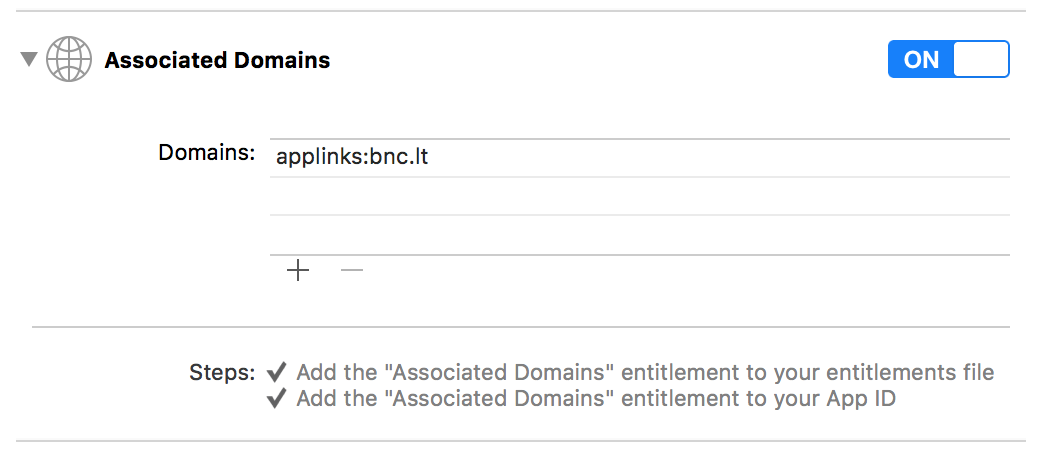
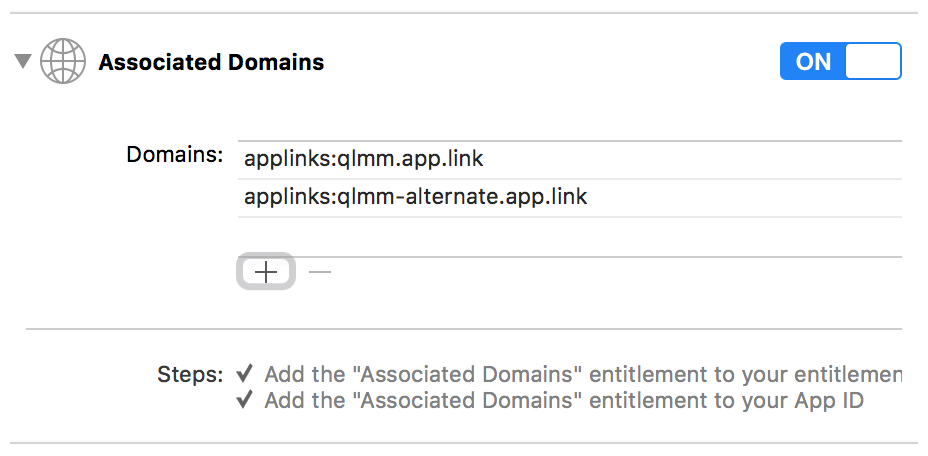
Inline the UL/AL instructions

diff --git a/pages/getting-started/universal-app-links.md b/pages/getting-started/universal-app-links.md
@@ -81,7 +81,7 @@ You can retrieve your app's Bundle Identifier under the `General` tab of your Xc
 
 {% caution title="bnc.lt links with your Test Key?" %}
 
-Due to a change in iOS 9.3.1, Universal Links will not work on *Test* apps using the `bnc.lt` domain. We're working on resolving this. Please test Universal Links with your Live app, where they will work as expected. [Read more](http://status.branch.io/incidents/b0c19p6hpq58){:target="_blank"}.
+Due to a change in iOS 9.3.1, Universal Links will not work on *Test* apps using the `bnc.lt` domain. Please test `bnc.lt` Universal Links with your Live app, where they will work as expected. [Read more](http://status.branch.io/incidents/b0c19p6hpq58){:target="_blank"}.
 {% endcaution %}
 
 
@@ -105,9 +105,14 @@ Please ensure...
 
 ### Add your Branch link domains
 
-1. In the `Domains` section, click the `+` icon and add the following entry: `applinks:[branchsubdomain]` {% image src='/img/pages/getting-started/universal-app-links/add_domain.png' 3-quarters center alt='xcode add domain' %}
+1. Go to the [Link Settings](https://dashboard.branch.io/#/settings/link) page on the dashboard.
+1. Scroll down to the `Custom Link Domain` area.
+1. Locate the value inside the `Default domain name` box.{% image src='/img/pages/getting-started/universal-app-links/default-link-domain.png' half center alt='retrieving the default link subdomain' %}
+1. In the `Domains` section, click the `+` icon and add the following entries: (making sure that `xxxx` matches the four-character value on the dashboard)
+   * `applinks:xxxx.app.link`
+   * `applinks:xxxx-alternate.app.link`
 
-{% ingredient branchsubdomain %}{% endingredient %}
+{% image src='/img/pages/getting-started/universal-app-links/add_domain.png' 3-quarters center alt='xcode add domain' %}
 
 {% caution title="Support for legacy links" %}
 If any of your links use the legacy `bnc.lt` domain, you must also include the following entry: `applinks:bnc.lt`
@@ -126,41 +131,52 @@ If you use a [custom domain or subdomain for your Branch links]({{base.url}}/get
 
 {% if page.cordova %}
 
-Add the following entry to your application's `config.xml`:
+1. Go to the [Link Settings](https://dashboard.branch.io/#/settings/link) page on the dashboard.
+1. Scroll down to the `Custom Link Domain` area.
+1. Locate the value inside the `Default domain name` box.{% image src='/img/pages/getting-started/universal-app-links/default-link-domain.png' half center alt='retrieving the default link subdomain' %}
+1. Add the following entry to your application's `config.xml` (making sure that `xxxx` matches the four-character value on the dashboard)
 
 {% highlight xml %}
 <branch-config>
     <ios-team-id value="your_ios_team_id" />
-    <host name="[branchsubdomain]" scheme="https" />
+    <host name="xxxx.app.link" scheme="https" />
+    <host name="xxxx-alternate.app.link" scheme="https" />
 </branch-config>
 {% endhighlight %}
 
 {% caution title="Support for legacy links" %}
-If any of your links use the legacy `bnc.lt` domain, you must also include the following entry:
+If any of your links use the legacy `bnc.lt` domain, you must also include the following key:
 
 {% highlight xml %}
-<branch-config>
-<ios-team-id value="your_ios_team_id" />
 <host name="bnc.lt" scheme="https" />
-</branch-config>
 {% endhighlight %}
 
 {% endcaution %}
 
 {% protip title="Notes" %}
 - You can get your **iOS Team ID** from the Your Account page on the [Apple Developer Portal](https://developer.apple.com/membercenter/index.action#accountSummary).
-- If you use a custom domain or subdomain for your Branch links, you should also add a key for `<host name="mycustomdomainorsubdomain" scheme="https" />`.
+- If you use a custom domain or subdomain for your Branch links, you should also add a key for:
+
+{% highlight xml %}
+<host name="mycustomdomainorsubdomain" scheme="https" />
+{% endhighlight %}
+
 {% endprotip %}
 
 {% endif %}
 
 {% if page.xamarin %}
 
-Create a new file named `Entitlements.plist` in the root directory of your project. Enable `associated-domains` and add `applinks:[branchsubdomain]`.
+1. Go to the [Link Settings](https://dashboard.branch.io/#/settings/link) page on the dashboard.
+1. Scroll down to the `Custom Link Domain` area.
+1. Locate the value inside the `Default domain name` box.{% image src='/img/pages/getting-started/universal-app-links/default-link-domain.png' half center alt='retrieving the default link subdomain' %}
+1. Create a new file named `Entitlements.plist` in the root directory of your project.
+1. Enable `associated-domains`
+1. In the `Domains` section, click the `+` icon and add the following entries: (making sure that `xxxx` matches the four-character value on the dashboard)
+    * `applinks:xxxx.app.link`
+    * `applinks:xxxx-alternate.app.link`
 
 {% image src='/img/pages/getting-started/universal-app-links/xamarin_branch_ios_domains.png' full center alt='Associated Domains' %}
-
-{% ingredient branchsubdomain %}{% endingredient %}
 
 {% caution title="Support for legacy links" %}
 If any of your links use the legacy `bnc.lt` domain, you must also include the following entry: `applinks:bnc.lt`
@@ -174,8 +190,11 @@ If you use a [custom domain or subdomain for your Branch links]({{base.url}}/get
 
 {% if page.titanium %}
 
+1. Go to the [Link Settings](https://dashboard.branch.io/#/settings/link) page on the dashboard.
+1. Scroll down to the `Custom Link Domain` area.
+1. Locate the value inside the `Default domain name` box.{% image src='/img/pages/getting-started/universal-app-links/default-link-domain.png' half center alt='retrieving the default link subdomain' %}
 1. Create a new file named `Entitlements.plist` in the same directory as your Titanium app's `tiapp.xml`
-1. Insert the following snippet:
+1. Insert the following snippet (making sure that `xxxx` matches the four-character value on the dashboard)
 
 {% highlight xml %}
 <?xml version="1.0" encoding="UTF-8"?>
@@ -184,13 +203,12 @@ If you use a [custom domain or subdomain for your Branch links]({{base.url}}/get
 <dict>
     <key>com.apple.developer.associated-domains</key>
     <array>
-        <string>applinks:[branchsubdomain]</string>
+        <string>applinks:xxxx.app.link</string>
+        <string>applinks:xxxx-alternate.app.link</string>
     </array>
 </dict>
 </plist>
 {% endhighlight %}
-
-{% ingredient branchsubdomain %}{% endingredient %}
 
 {% caution title="Support for legacy links" %}
 If any of your links use the legacy `bnc.lt` domain, you must also include the following entry: `<string>applinks:bnc.lt</string>`
@@ -380,43 +398,52 @@ You can insert both your debug and production fingerprints for testing. Simply s
 
 ## Configure project
 
-Add the following entry to your application's `config.xml`:
+1. Go to the [Link Settings](https://dashboard.branch.io/#/settings/link) page on the dashboard.
+1. Scroll down to the `Custom Link Domain` area.
+1. Locate the value inside the `Default domain name` box.{% image src='/img/pages/getting-started/universal-app-links/default-link-domain.png' half center alt='retrieving the default link subdomain' %}
+1. Add the following entry to your application's `config.xml` (making sure that `xxxx` matches the four-character value on the dashboard)
 
 {% highlight xml %}
 <branch-config>
-    <android-prefix value="READ_FROM_DASHBOARD" />
-    <host name="[branchsubdomain]" scheme="https" />
+    <host name="xxxx.app.link" scheme="https" />
 </branch-config>
 {% endhighlight %}
-
-{% ingredient branchsubdomain %}{% endingredient %}
 
 {% caution title="Support for legacy links" %}
-If any of your links use the legacy `bnc.lt` domain, you must also include the following entry:
+If any of your links use the legacy `bnc.lt` domain, you must also include the following keys:
 
 {% highlight xml %}
-<branch-config>
-    <ios-team-id value="your_ios_team_id" />
-    <host name="bnc.lt" scheme="https" />
-</branch-config>
+<android-prefix value="READ_FROM_DASHBOARD" />
+<host name="bnc.lt" scheme="https" />
 {% endhighlight %}
+
+`READ_FROM_DASHBOARD` is the four-character value in front of all your links. You can find it underneath the field labeled **SHA256 Cert Fingerprints** on the dashboard. It will look something like this: `/WSuf` (the initial `/` character should be included).
 
 {% endcaution %}
 
 {% protip title="Notes" %}
 - If you enabled iOS Universal Links, some of these keys will already exist and should not be entered again.
-- `READ_FROM_DASHBOARD` is the four-character value in front of all your links. You can find it underneath the field labeled **SHA256 Cert Fingerprints** on the dashboard. It will look something like this: `/WSuf` (the initial `/` character should be included).
-- If you use a custom domain or subdomain for your Branch links, you should also add a key for `<host name="mycustomdomainorsubdomain" scheme="https" />`.
+- If you use a custom domain or subdomain for your Branch links, you should also add a key for:
+
+{% highlight xml %}
+<android-prefix value="READ_FROM_DASHBOARD" />
+<host name="mycustomdomainorsubdomain" scheme="https" />
+{% endhighlight %}
+
+`READ_FROM_DASHBOARD` is the four-character value in front of all your links. You can find it underneath the field labeled **SHA256 Cert Fingerprints** on the dashboard. It will look something like this: `/WSuf` (the initial `/` character should be included).
+
 {% endprotip %}
 
 {% else %}
 
 ## Add Intent Filter to Manifest
 
+1. Go to the [Link Settings](https://dashboard.branch.io/#/settings/link) page on the dashboard.
+1. Scroll down to the `Custom Link Domain` area.
+1. Locate the value inside the `Default domain name` box.{% image src='/img/pages/getting-started/universal-app-links/default-link-domain.png' half center alt='retrieving the default link subdomain' %}
 1. Choose the `Activity` you want to open up when a link is clicked. This is typically your `SplashActivity` or a `BaseActivity` that all other activities inherit from (and likely the same one you selected in the [SDK Integration Guide]({{base.url}}/getting-started/sdk-integration-guide)).
 1. Inside your `AndroidManifest.xml`, locate where the selected `Activity` is defined.
-1. Within the `Activity` definition, insert the intent filter provided below.
-   - Replace `READ_FROM_DASHBOARD` with the value provided underneath the **SHA256 Cert Fingerprints** field on the Branch dashboard. It will look something like this: `android:pathPrefix="/WSuf"`
+1. Within the `Activity` definition, insert the intent filter provided below (making sure that `xxxx` matches the four-character value on the dashboard)
 
 {% highlight xml %}
 <!-- AppLink example -->
@@ -424,11 +451,9 @@ If any of your links use the legacy `bnc.lt` domain, you must also include the f
     <action android:name="android.intent.action.VIEW" />
     <category android:name="android.intent.category.DEFAULT" />
     <category android:name="android.intent.category.BROWSABLE" />
-    <data android:scheme="https" android:host="[branchsubdomain]" android:pathPrefix="READ_FROM_DASHBOARD" />
+    <data android:scheme="https" android:host="xxxx.app.link" />
 </intent-filter>
 {% endhighlight %}
-
-{% ingredient branchsubdomain %}{% endingredient %}
 
 {% caution title="Support for legacy links" %}
 If any of your links use the legacy `bnc.lt` domain, you must also include the following entry:
@@ -436,6 +461,8 @@ If any of your links use the legacy `bnc.lt` domain, you must also include the f
 {% highlight xml %}
 <data android:scheme="https" android:host="bnc.lt" android:pathPrefix="READ_FROM_DASHBOARD" />
 {% endhighlight %}
+
+`READ_FROM_DASHBOARD` is the four-character value in front of all your links. You can find it underneath the field labeled **SHA256 Cert Fingerprints** on the dashboard. It will look something like this: `/WSuf` (the initial `/` character should be included).
 
 {% endcaution %}
 
@@ -445,6 +472,9 @@ If you use a [custom domain or subdomain for your Branch links]({{base.url}}/get
 {% highlight xml %}
 <data android:scheme="https" android:host="mycustomdomainorsubdomain" android:pathPrefix="READ_FROM_DASHBOARD" />
 {% endhighlight %}
+
+`READ_FROM_DASHBOARD` is the four-character value in front of all your links. You can find it underneath the field labeled **SHA256 Cert Fingerprints** on the dashboard. It will look something like this: `/WSuf` (the initial `/` character should be included).
+
 {% endprotip %}
 
 {% endif %}
@@ -482,7 +512,7 @@ Here are some recommended next steps:
 1. You should see a message telling you the status of your domain under the `Domain name` field. If you don't, please type your domain in again.
 1. Click the `Save` button.
 
-{% image src='/img/pages/getting-started/universal-app-links/custom-domain-success.png' full center alt='successful custom subdomain configuration' %}
+{% image src='/img/pages/getting-started/universal-app-links/enable-custom-subdomain.png' 2-thirds center alt='successful custom subdomain configuration' %}
 
 ### Custom ROOT domain (branch.com)
 
